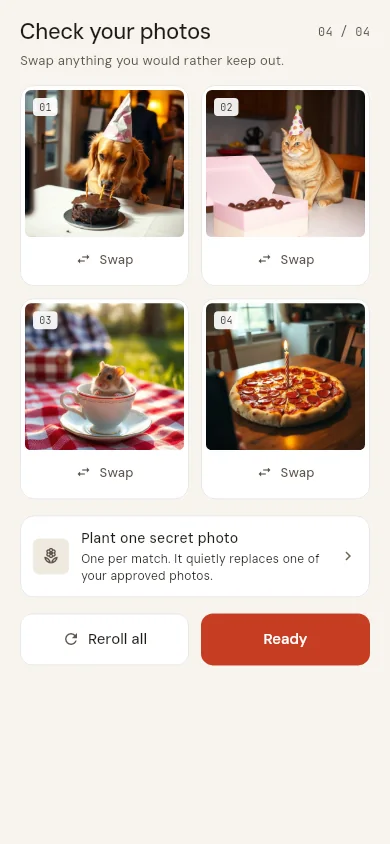
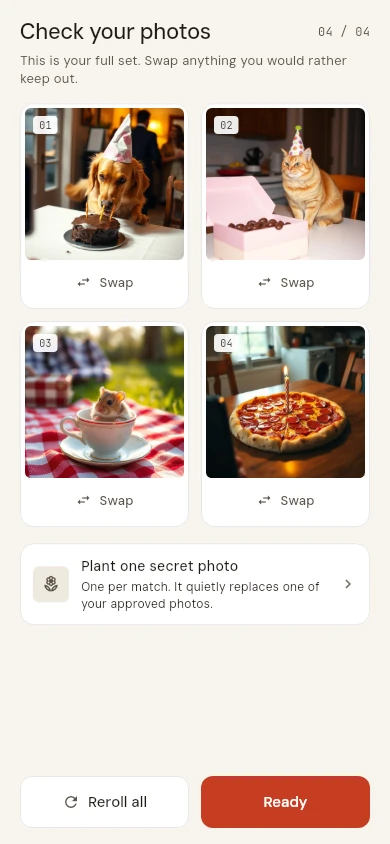
Show the full photo set on the review screen

diff --git a/app/lib/ui/screens/prepare_screen.dart b/app/lib/ui/screens/prepare_screen.dart
@@ -24,6 +24,44 @@ class PrepareScreen extends ConsumerWidget {
     final isHost = state.isHosting;
 
     return Scaffold(
+      bottomNavigationBar: SafeArea(
+        minimum: const EdgeInsets.fromLTRB(
+          AppSpacing.s20,
+          AppSpacing.s8,
+          AppSpacing.s20,
+          AppSpacing.s16,
+        ),
+        child: Row(
+          children: <Widget>[
+            Expanded(
+              child: SecondaryButton(
+                label: 'Reroll all',
+                icon: Icons.refresh,
+                onPressed: () => unawaited(
+                  isHost
+                      ? coordinator.rerollCandidates()
+                      : coordinator.clientRerollAll(),
+                ),
+              ),
+            ),
+            const SizedBox(width: AppSpacing.s12),
+            Expanded(
+              child: PrimaryButton(
+                label: state.localReady
+                    ? (state.isHosting ? 'Waiting for players' : 'Ready')
+                    : 'Ready',
+                onPressed: state.localReady || state.candidates.isEmpty
+                    ? null
+                    : () => unawaited(
+                        isHost
+                            ? coordinator.markLocalReady()
+                            : coordinator.clientMarkReady(),
+                      ),
+              ),
+            ),
+          ],
+        ),
+      ),
       body: SafeArea(
         child: ListView(
           padding: const EdgeInsets.fromLTRB(
@@ -54,7 +92,12 @@ class PrepareScreen extends ConsumerWidget {
             ),
             const SizedBox(height: AppSpacing.s4),
             Text(
-              'Swap anything you would rather keep out.',
+              state.photosNeeded > 0 &&
+                      state.candidates.length >= state.photosNeeded
+                  ? 'This is your full set. Swap anything you would rather keep out.'
+                  : state.photosNeeded > 0 && state.candidates.isNotEmpty
+                  ? 'You have ${state.candidates.length} of ${state.photosNeeded}. Reroll to fill the set.'
+                  : 'Swap anything you would rather keep out.',
               style: TextStyle(fontSize: 13, color: colors.ink2, height: 1.4),
             ),
             const SizedBox(height: AppSpacing.s16),
@@ -68,26 +111,38 @@ class PrepareScreen extends ConsumerWidget {
                 ),
               )
             else
-              GridView.builder(
-                shrinkWrap: true,
-                physics: const NeverScrollableScrollPhysics(),
-                itemCount: state.candidates.length,
-                gridDelegate: const SliverGridDelegateWithFixedCrossAxisCount(
-                  crossAxisCount: 2,
-                  mainAxisSpacing: AppSpacing.s12,
-                  crossAxisSpacing: AppSpacing.s12,
-                  childAspectRatio: 0.84,
-                ),
-                itemBuilder: (context, index) {
-                  final candidate = state.candidates[index];
-                  return _CandidateTile(
-                    candidate: candidate,
-                    index: index,
-                    onSwap: () => unawaited(
-                      isHost
-                          ? coordinator.swapCandidate(index)
-                          : coordinator.clientSwapCandidate(index),
-                    ),
+              LayoutBuilder(
+                builder: (context, constraints) {
+                  final columns = _photoColumns(
+                    constraints.maxWidth,
+                    state.candidates.length,
+                  );
+                  final tileWidth =
+                      (constraints.maxWidth - AppSpacing.s12 * (columns - 1)) /
+                      columns;
+                  return Wrap(
+                    spacing: AppSpacing.s12,
+                    runSpacing: AppSpacing.s12,
+                    children: <Widget>[
+                      for (
+                        var index = 0;
+                        index < state.candidates.length;
+                        index++
+                      )
+                        SizedBox(
+                          width: tileWidth,
+                          height: tileWidth / 0.82,
+                          child: _CandidateTile(
+                            candidate: state.candidates[index],
+                            index: index,
+                            onSwap: () => unawaited(
+                              isHost
+                                  ? coordinator.swapCandidate(index)
+                                  : coordinator.clientSwapCandidate(index),
+                            ),
+                          ),
+                        ),
+                    ],
                   );
                 },
               ),
@@ -104,37 +159,6 @@ class PrepareScreen extends ConsumerWidget {
                 tone: StatusTone.positive,
               ),
             ],
-            const SizedBox(height: AppSpacing.s16),
-            Row(
-              children: <Widget>[
-                Expanded(
-                  child: SecondaryButton(
-                    label: 'Reroll all',
-                    icon: Icons.refresh,
-                    onPressed: () => unawaited(
-                      isHost
-                          ? coordinator.rerollCandidates()
-                          : coordinator.clientRerollAll(),
-                    ),
-                  ),
-                ),
-                const SizedBox(width: AppSpacing.s12),
-                Expanded(
-                  child: PrimaryButton(
-                    label: state.localReady
-                        ? (state.isHosting ? 'Waiting for players' : 'Ready')
-                        : 'Ready',
-                    onPressed: state.localReady
-                        ? null
-                        : () => unawaited(
-                            isHost
-                                ? coordinator.markLocalReady()
-                                : coordinator.clientMarkReady(),
-                          ),
-                  ),
-                ),
-              ],
-            ),
             if (state.errorMessage != null) ...<Widget>[
               const SizedBox(height: AppSpacing.s12),
               NoticeBanner(
@@ -167,6 +191,13 @@ class PrepareScreen extends ConsumerWidget {
       ),
     );
   }
+}
+
+int _photoColumns(double width, int count) {
+  if (count <= 4) return 2;
+  if (width < 330) return 2;
+  if (width >= 640) return 4;
+  return 3;
 }
 
 class _CandidateTile extends StatelessWidget {

diff --git a/app/lib/state/match_coordinator.dart b/app/lib/state/match_coordinator.dart
@@ -1372,8 +1372,48 @@ class MatchCoordinator {
           candidates: _state.candidates.take(engine.photosNeeded).toList(),
         ),
       );
+    } else if (_state.candidates.length < engine.photosNeeded) {
+      // The host picked a starter set before the room opened. Now that the
+      // player count is known, fill the set so the review screen shows every
+      // photo that will go into the deck.
+      await _topUpHostCandidates(engine.photosNeeded);
     }
     _emit(_state.copyWith(clearLoading: true));
+  }
+
+  Future<void> _topUpHostCandidates(int target) async {
+    final current = _state.candidates;
+    final missing = target - current.length;
+    if (missing <= 0) return;
+    final picked = await _photos.sampleCandidates(
+      excludedAlbumIds: _settingsValue.excludedAlbumIds,
+      count: missing,
+      excludeAssetIds: current.map((c) => c.localAssetId).toSet(),
+      requireDate: _needsPhotoDates,
+    );
+    if (picked.isEmpty) {
+      if (_needsPhotoDates) {
+        _emit(_state.copyWith(errorMessage: _noDatedPhotosMessage));
+      }
+      return;
+    }
+    final added = <PhotoCandidate>[
+      for (var i = 0; i < picked.length; i++)
+        PhotoCandidate(
+          photoId: 'host-${current.length + i}-${picked[i].assetId}',
+          localAssetId: picked[i].assetId,
+          ownerId: 'host',
+          bytes: picked[i].bytes,
+          capturedYear: picked[i].capturedAt?.year,
+          capturedMonth: picked[i].capturedAt?.month,
+        ),
+    ];
+    _emit(
+      _state.copyWith(
+        candidates: <PhotoCandidate>[...current, ...added],
+        clearError: true,
+      ),
+    );
   }
 
   Future<void> rerollCandidates() async {

diff --git a/app/test/ui/screens_golden_test.dart b/app/test/ui/screens_golden_test.dart
@@ -91,6 +91,23 @@ void main() {
     );
   });
 
+  testWidgets('prepare full set', (tester) async {
+    final photos = _fixturePhotos();
+    for (final photo in photos) {
+      await _precachePhoto(tester, photo);
+    }
+    await _pump(
+      tester,
+      const PrepareScreen(),
+      _settings(),
+      state: _prepareState(photos, count: 16, needed: 16),
+    );
+    await expectLater(
+      find.byType(PrepareScreen),
+      matchesGoldenFile('goldens/prepare-full-set.png'),
+    );
+  });
+
   testWidgets('round', (tester) async {
     final photo = _fixturePhoto('party-dog');
     await _precachePhoto(tester, photo);
@@ -371,15 +388,19 @@ List<Uint8List> _fixturePhotos() => <Uint8List>[
   _fixturePhoto('party-pizza'),
 ];
 
-MatchUiState _prepareState(List<Uint8List> photos) => MatchUiState(
+MatchUiState _prepareState(
+  List<Uint8List> photos, {
+  int count = 4,
+  int needed = 4,
+}) => MatchUiState(
   isHosting: true,
   roomId: 'k8m2p9x4',
   localPlayerId: 'host',
   players: _players(),
   phase: RoundPhase.preparing,
-  photosNeeded: 4,
+  photosNeeded: needed,
   candidates: <PhotoCandidate>[
-    for (var i = 0; i < 4; i++)
+    for (var i = 0; i < count; i++)
       PhotoCandidate(
         photoId: 'p$i',
         localAssetId: 'a$i',

diff --git a/app/lib/ui/screens/setup/host_photos_screen.dart b/app/lib/ui/screens/setup/host_photos_screen.dart
@@ -179,7 +179,7 @@ class _HostPhotosScreenState extends ConsumerState<HostPhotosScreen> {
                 const SizedBox(width: AppSpacing.s8),
                 Expanded(
                   child: Text(
-                    'You can add more photos once friends join. ${mode.label} starts after everyone readies up.',
+                    'We fill the rest of your set when friends join. ${mode.label} starts after everyone readies up.',
                     style: TextStyle(
                       fontSize: 12,
                       height: 1.4,

diff --git a/app/test/ui/setup_flow_test.dart b/app/test/ui/setup_flow_test.dart
@@ -132,7 +132,14 @@ void main() {
 
       expect(find.byType(PrepareScreen), findsOneWidget);
       expect(find.text('Check your photos'), findsOneWidget);
-      expect(find.byType(NumberTag), findsNWidgets(4));
+      expect(coordinator.state.candidates, hasLength(16));
+      expect(find.byType(NumberTag), findsNWidgets(16));
+      expect(
+        find.text(
+          'This is your full set. Swap anything you would rather keep out.',
+        ),
+        findsOneWidget,
+      );
     },
   );
 }
